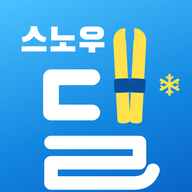
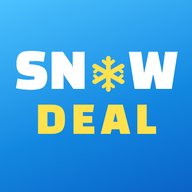
아이콘을 SN❄W DEAL로 교체, 앱 실행 시 시작 화면 추가
Claude-Session: https://claude.ai/code/session_01NQLwSRwjvqa1iUZG1DvbuB

diff --git a/src/app.html b/src/app.html
@@ -192,9 +192,18 @@ h2{font-family:var(--display);font-weight:400;font-size:22px;letter-spacing:-.01
 .contact{display:grid;gap:10px;justify-items:start}
 .contact p{margin:0;font-size:14px;line-height:1.6}
 .page .bar .logo{color:#fff}
+#splash{position:fixed;inset:0;z-index:99;background:linear-gradient(160deg,#4cc2ff 0%,#1287e0 55%,#0a64c8 100%);color:#fff;display:grid;place-content:center;justify-items:center;font-family:var(--display);line-height:1;transition:opacity .4s}
+#splash.out{opacity:0}
+.sp-w{font-size:min(23vw,104px);display:flex;align-items:center}
+.sp-w svg{width:.76em;height:.76em;color:#ffe14d;margin:0 .04em .03em}
+.sp-d{font-size:min(18vw,82px);color:#ffe14d;letter-spacing:.13em;padding-left:.13em;margin-top:.1em}
+#splash p{font-family:var(--font);font-weight:700;font-size:16px;margin:26px 0 0;opacity:.92;letter-spacing:-.01em}
+@media (prefers-reduced-motion:reduce){#splash{transition:none}}
 </style>
 
 <div class="app">
+  <div id="splash" hidden aria-hidden="true"><div class="sp-w">SN<svg viewBox="-12 -12 24 24" fill="none" stroke="currentColor" stroke-linecap="round" stroke-linejoin="round" aria-hidden="true"><path d="M0-10V10M-8.66-5L8.66 5M-8.66 5L8.66-5" stroke-width="3"/><path d="M-3.2-8.2L0-5.4 3.2-8.2M-3.2 8.2L0 5.4 3.2 8.2M-8.7-1.3L-6.3-3.3-9.3-4.9M8.7 1.3L6.3 3.3 9.3 4.9M-8.7 1.3L-6.3 3.3-9.3 4.9M8.7-1.3L6.3-3.3 9.3-4.9" stroke-width="2.1"/></svg>W</div><div class="sp-d">DEAL</div><p>스키장 리프트·렌탈 최저가</p></div>
+  <script>(function(){var s=document.getElementById("splash"),on=false;try{on=(matchMedia("(display-mode: standalone)").matches&&!sessionStorage.getItem("sd"))||/[?&]splash=1/.test(location.search);sessionStorage.setItem("sd","1")}catch(e){}if(!on)return;s.hidden=false;setTimeout(function(){s.classList.add("out");setTimeout(function(){s.hidden=true},450)},1200)})()</script>
   <div class="bar gut">
     <a class="logo" href="/"><img src="/icon-192.png" alt="" width="32" height="32">스노우딜</a>
     <select id="resort" aria-label="스키장 선택"><option value="all">전국 스키장</option></select>

diff --git a/index.html b/index.html
@@ -25,6 +25,8 @@
 </head>
 <body>
 <div class="app">
+  <div id="splash" hidden aria-hidden="true"><div class="sp-w">SN<svg viewBox="-12 -12 24 24" fill="none" stroke="currentColor" stroke-linecap="round" stroke-linejoin="round" aria-hidden="true"><path d="M0-10V10M-8.66-5L8.66 5M-8.66 5L8.66-5" stroke-width="3"/><path d="M-3.2-8.2L0-5.4 3.2-8.2M-3.2 8.2L0 5.4 3.2 8.2M-8.7-1.3L-6.3-3.3-9.3-4.9M8.7 1.3L6.3 3.3 9.3 4.9M-8.7 1.3L-6.3 3.3-9.3 4.9M8.7-1.3L6.3-3.3 9.3-4.9" stroke-width="2.1"/></svg>W</div><div class="sp-d">DEAL</div><p>스키장 리프트·렌탈 최저가</p></div>
+  <script>(function(){var s=document.getElementById("splash"),on=false;try{on=(matchMedia("(display-mode: standalone)").matches&&!sessionStorage.getItem("sd"))||/[?&]splash=1/.test(location.search);sessionStorage.setItem("sd","1")}catch(e){}if(!on)return;s.hidden=false;setTimeout(function(){s.classList.add("out");setTimeout(function(){s.hidden=true},450)},1200)})()</script>
   <div class="bar gut">
     <a class="logo" href="/"><img src="/icon-192.png" alt="" width="32" height="32">스노우딜</a>
     <select id="resort" aria-label="스키장 선택"><option value="all">전국 스키장</option></select>

diff --git a/style.css b/style.css
@@ -190,3 +190,10 @@ h2{font-family:var(--display);font-weight:400;font-size:22px;letter-spacing:-.01
 .contact{display:grid;gap:10px;justify-items:start}
 .contact p{margin:0;font-size:14px;line-height:1.6}
 .page .bar .logo{color:#fff}
+#splash{position:fixed;inset:0;z-index:99;background:linear-gradient(160deg,#4cc2ff 0%,#1287e0 55%,#0a64c8 100%);color:#fff;display:grid;place-content:center;justify-items:center;font-family:var(--display);line-height:1;transition:opacity .4s}
+#splash.out{opacity:0}
+.sp-w{font-size:min(23vw,104px);display:flex;align-items:center}
+.sp-w svg{width:.76em;height:.76em;color:#ffe14d;margin:0 .04em .03em}
+.sp-d{font-size:min(18vw,82px);color:#ffe14d;letter-spacing:.13em;padding-left:.13em;margin-top:.1em}
+#splash p{font-family:var(--font);font-weight:700;font-size:16px;margin:26px 0 0;opacity:.92;letter-spacing:-.01em}
+@media (prefers-reduced-motion:reduce){#splash{transition:none}}

diff --git a/tools/build.py b/tools/build.py
@@ -117,7 +117,7 @@ for n, _ in D["RESORTS"]:
 (ROOT / "robots.txt").write_text(f"User-agent: *\nAllow: /\nSitemap: {BASE}/sitemap.xml\n", encoding="utf-8")
 (ROOT / "manifest.webmanifest").write_text(json.dumps({
     "name": "스노우딜", "short_name": "스노우딜", "description": "전국 스키장 렌탈샵·리프트권 가격 비교",
-    "start_url": "/", "scope": "/", "display": "standalone", "background_color": "#ffffff", "theme_color": "#1f97ec", "lang": "ko",
+    "start_url": "/", "scope": "/", "display": "standalone", "background_color": "#1287e0", "theme_color": "#1f97ec", "lang": "ko",
     "icons": [{"src": "/icon-192.png", "sizes": "192x192", "type": "image/png"},
               {"src": "/icon-512.png", "sizes": "512x512", "type": "image/png", "purpose": "any"}]}, ensure_ascii=False, indent=1) + "\n", encoding="utf-8")
 print("built", len(urls), "pages")
